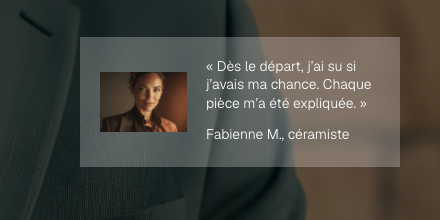
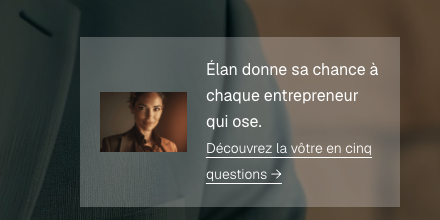
Hero : carte « Élan donne sa chance à chaque entrepreneur qui ose »

Changed region(s): [[0.1773, 0.5182, 0.9159, 0.9545], [0.2068, 0.3273, 0.4432, 0.7091], [0.4727, 0.2727, 0.8568, 0.4909]]

diff --git a/html/index.html b/html/index.html
@@ -32,7 +32,7 @@
           <p id="mention" class="absolute left-5 top-[12svh] hidden max-w-[14.5rem] text-[clamp(0.8125rem,1vw,0.9375rem)] font-light leading-[1.4] text-white sm:left-8 sm:block">Le financement des petites entreprises, instruit par de vrais chargés d’affaires.</p>
           <figure id="carte" class="absolute right-5 top-[8.5svh] hidden w-[clamp(18rem,22.2vw,21rem)] items-center gap-[1.2rem] bg-white/25 p-5 text-white sm:right-10 lg:flex">
             <img src="/photos/photo-1.jpg" width="87" height="60" alt="" class="h-[3.75rem] w-[5.4rem] shrink-0 object-cover object-[50%_18%]" />
-            <div><blockquote class="text-[clamp(0.8125rem,0.97vw,0.9375rem)] font-light leading-[1.35]">«&nbsp;Dès le départ, j’ai su si j’avais ma chance. Chaque pièce m’a été expliquée.&nbsp;»</blockquote><figcaption class="mt-2 text-[clamp(0.8125rem,0.97vw,0.9375rem)] font-light">Fabienne M., céramiste</figcaption></div>
+            <div><p class="text-[clamp(0.875rem,1.05vw,1rem)] font-normal leading-[1.3]">Élan donne sa chance à chaque entrepreneur qui ose.</p><a href="/bonjour" class="tr mt-2.5 inline-flex min-h-8 items-center text-[clamp(0.8125rem,0.97vw,0.9375rem)] font-light underline underline-offset-4 hover:opacity-80">Découvrez la vôtre en cinq questions&nbsp;→</a></div>
           </figure>
           <div id="texte" class="absolute inset-x-0 bottom-[12svh] z-10 mx-auto flex max-w-[68rem] flex-col items-center px-6 text-center text-white">
             <h1 id="hero-titre" class="text-[clamp(2.125rem,4.3vw,3.875rem)] font-light leading-[1.16] tracking-[-0.025em]">Donnez de l’élan<br class="hidden sm:block" /> à votre projet.</h1>

diff --git a/docs/decisions.md b/docs/decisions.md
@@ -136,3 +136,8 @@ Format : contexte, options, choix, raison.
 - Contexte : la citation du brief (« Je ne savais pas ce qu'on attendait de moi... J'ai lâché au moment des pièces ») décrit le problème de départ. Sur un hero elle ne donne pas envie d'agir.
 - Choix : « Dès le départ, j'ai su si j'avais ma chance. Chaque pièce m'a été expliquée. », attribuée à Fabienne M., céramiste. Texte écrit pour le prototype, aucun chiffre, aucun résultat promis (pas de « mon four est financé »).
 - Honnêteté : ce n'est pas une parole recueillie. Dans un produit réel, cette carte devrait citer un vrai retour d'utilisatrice, avec son accord. Le brief reste cité tel quel dans `docs/parcours-cible.md`.
+
+## D23. Carte du hero : phrase de marque plutôt que témoignage
+- Contexte : après D22, le témoignage fictif de Fabienne a été jugé peu engageant ; l'utilisatrice a proposé « Élan donne sa chance à… ».
+- Choix : « Élan donne sa chance à chaque entrepreneur qui ose. » suivie d'un lien d'action « Découvrez la vôtre en cinq questions → » vers l'écran de bienvenue. Ce n'est plus une citation : aucun faux témoignage, donc plus rien à justifier. « Donner sa chance » ne promet pas un financement.
+- Remplace D22 pour la carte du hero.
